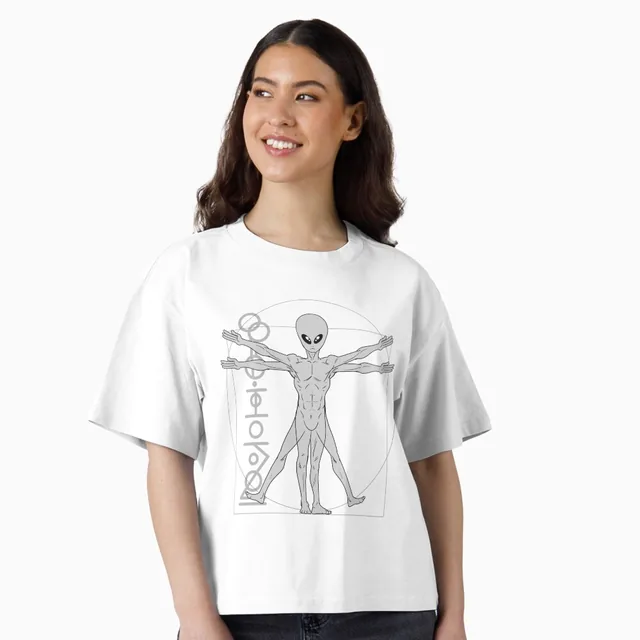
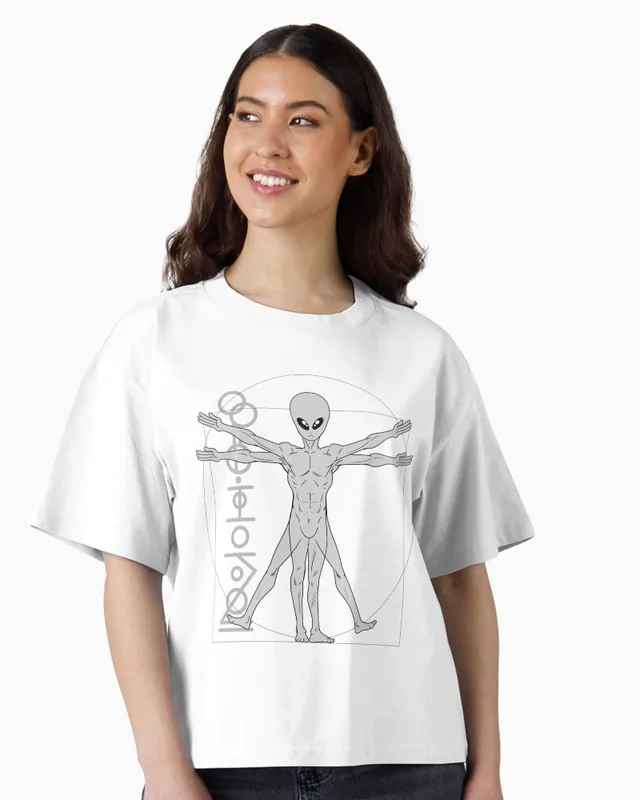
Add files via upload

diff --git a/index.html b/index.html
@@ -189,13 +189,17 @@
       <div class="swag-inner reveal">
         <div class="swag-copy">
           <h2 id="swag-h">The Other is up for adoption.</h2>
-          <p>We don&rsquo;t have any books for sale yet, but we do have swag. Every purchase from our Redbubble shop helps a very small press get its first books out the door.</p>
+          <p>We don&rsquo;t have any books for sale yet, but we do have swag: stickers, buttons, totes, and tees. Every purchase from our Redbubble shop helps a very small press get its first books out the door.</p>
           <p class="swag-note">It&rsquo;s a merch shop, not a bookstore. Our first books are coming soon.</p>
           <p class="actions"><a class="btn btn-quiet" href="https://bipedalpress.redbubble.com" rel="noopener">Browse the swag</a></p>
         </div>
-        <div class="swag-pics">
-          <a href="https://bipedalpress.redbubble.com" rel="noopener"><img src="images/swag-satyr.webp" alt="A smiling man in a white long-sleeve shirt printed with a line drawing of a satyr in the pose of Leonardo da Vinci&rsquo;s Vitruvian Man" width="640" height="640" loading="lazy"></a>
-          <a href="https://bipedalpress.redbubble.com" rel="noopener"><img src="images/swag-alien.webp" alt="A smiling woman in a white t-shirt printed with the gray four-armed Bipedal Press alien in the pose of the Vitruvian Man" width="640" height="640" loading="lazy"></a>
+        <div class="swag-grid">
+          <a class="swag-frame" href="https://bipedalpress.redbubble.com" rel="noopener"><img src="images/swag-satyr.webp" alt="A smiling man in a white long-sleeve shirt printed with a line drawing of a satyr in the pose of Leonardo da Vinci&rsquo;s Vitruvian Man" width="640" height="800" loading="lazy"></a>
+          <a class="swag-frame" href="https://bipedalpress.redbubble.com" rel="noopener"><img src="images/swag-sweatshirt.webp" alt="A smiling man in a black sweatshirt printed in cream with the Bipedal Press alien, a column of alien glyphs, and the words Bipedal Press" width="640" height="800" loading="lazy"></a>
+          <a class="swag-frame" href="https://bipedalpress.redbubble.com" rel="noopener"><img src="images/swag-alien.webp" alt="A smiling woman in a white t-shirt printed with the gray four-armed Bipedal Press alien in the pose of the Vitruvian Man" width="640" height="800" loading="lazy"></a>
+          <a class="swag-frame" href="https://bipedalpress.redbubble.com" rel="noopener"><img src="images/swag-sticker-logo.webp" alt="A holographic Bipedal Press logo sticker on a gray water bottle" width="640" height="800" loading="lazy"></a>
+          <a class="swag-frame" href="https://bipedalpress.redbubble.com" rel="noopener"><img src="images/swag-button.webp" alt="A round cream pin button showing the gray four-armed alien in the pose of the Vitruvian Man beside a column of glyphs" width="640" height="800" loading="lazy"></a>
+          <a class="swag-frame" href="https://bipedalpress.redbubble.com" rel="noopener"><img src="images/swag-sticker-glyph.webp" alt="A black sticker of a column of alien glyphs on a gray water bottle" width="640" height="800" loading="lazy"></a>
         </div>
       </div>
     </section>

diff --git a/style.css b/style.css
@@ -604,18 +604,32 @@ html.js .reveal-group.in > .craft:hover { transition-delay: 0s; }
 /* ---------- Swag band (home) ---------- */
 .swag { max-width: 82rem; margin: 0 auto; padding: 0 var(--gutter) var(--section); }
 .swag-inner {
-  display: grid; grid-template-columns: minmax(0, 1.1fr) minmax(0, 1fr); gap: clamp(1.5rem, 4vw, 3rem); align-items: center;
   border: 2px solid var(--ink); border-radius: 8px;
-  padding: clamp(1.5rem, 3.5vw, 2.5rem);
+  padding: clamp(1.5rem, 3.5vw, 2.75rem);
 }
-.swag-copy h2 { font-size: clamp(1.6rem, 1.3rem + 1.2vw, 2.3rem); margin-bottom: 0.4em; }
-.swag-copy p { margin-bottom: 0.7em; }
+.swag-copy { text-align: center; margin-bottom: clamp(1.75rem, 4vw, 2.75rem); }
+.swag-copy h2 { font-size: clamp(1.6rem, 1.3rem + 1.2vw, 2.4rem); margin-bottom: 0.4em; }
+.swag-copy p { margin-left: auto; margin-right: auto; margin-bottom: 0.7em; max-width: 40rem; }
 .swag-note { font-size: 0.95rem; color: var(--ink-soft); }
-.swag-copy .actions { margin-top: 1.1rem; margin-bottom: 0; }
-.swag-pics { display: grid; grid-template-columns: repeat(2, minmax(0, 1fr)); gap: 0.9rem; }
-.swag-pics a { display: block; border: 1px solid var(--alien-line); line-height: 0; }
-.swag-pics a:hover, .swag-pics a:focus-visible { border-color: var(--accent); }
-.swag-pics img { width: 100%; height: auto; }
-@media (max-width: 860px) { .swag-inner { grid-template-columns: 1fr; } }
+.swag-copy .actions { margin-top: 1.1rem; margin-bottom: 0; justify-content: center; }
+.swag-grid {
+  display: grid; grid-template-columns: repeat(3, minmax(0, 1fr));
+  gap: clamp(1.25rem, 3vw, 2.5rem);
+  max-width: 62rem; margin: 0 auto;
+}
+/* framed prints: a cream mat inside an ink frame */
+.swag-frame {
+  display: block; line-height: 0;
+  padding: 0.65rem; background: var(--cream-deep);
+  border: 2px solid var(--ink); box-shadow: 7px 7px 0 var(--accent);
+  transition: transform 0.15s, box-shadow 0.15s;
+}
+.swag-frame img { width: 100%; height: auto; aspect-ratio: 4 / 5; object-fit: cover; border: 1px solid var(--alien-line); }
+.swag-frame:hover, .swag-frame:focus-visible { transform: translate(-2px, -2px); box-shadow: 9px 9px 0 var(--accent); }
+@media (max-width: 600px) {
+  .swag-grid { grid-template-columns: repeat(2, minmax(0, 1fr)); gap: 1.1rem; }
+  .swag-frame { padding: 0.45rem; box-shadow: 5px 5px 0 var(--accent); margin-right: 5px; margin-bottom: 5px; }
+}
+@media (prefers-reduced-motion: reduce) { .swag-frame { transition: none; } }
 .hero .actions { gap: 0.6rem; }
 .hero .actions .btn { padding: 0.7em 1.1em; font-size: 1.05rem; }
